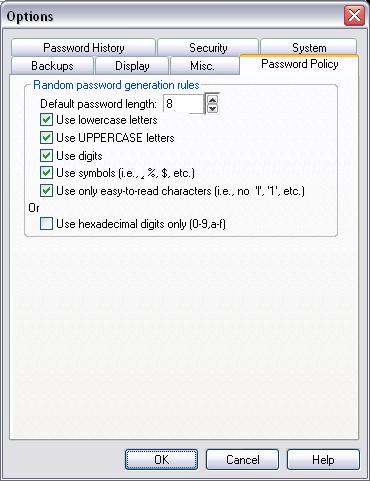
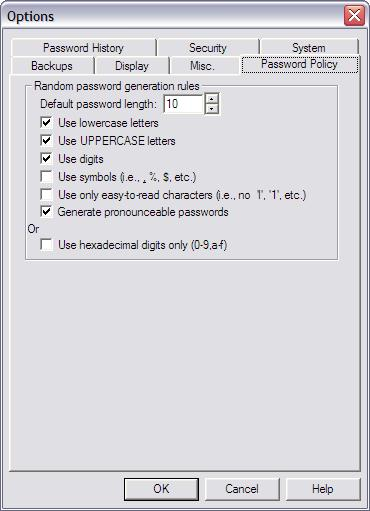
Finished implementing pronounceable password policy. Also cleaned up OptionsPasswordPolicy (less cut&paste coding)

diff --git a/pwsafe/pwsafe/help/default/html/password_policies.html b/pwsafe/pwsafe/help/default/html/password_policies.html
@@ -1,24 +1,30 @@
 <!DOCTYPE HTML PUBLIC "-//W3C//DTD HTML 4.01 Transitional//EN">
 <html>
 <head>
+
+  
+
+
+
+  
   <title>Setting a Password Policy</title>
-
-
 <!-- pwsafe version: 2.11--><!-- Modified: 15/06/2005 --><!--Popup control -->
   <script language="javascript" src="html/popups.js">
   </script>
+  
   <link rel="stylesheet" type="text/css" href="style.css">
-
 </head>
 
 
 <body>
 
+
 <object id="popup" type="application/x-oleobject" classid="clsid:adb880a6-d8ff-11cf-9377-00aa003b7a11"> </object>
 <!-- Popup Source File -->
 <h2>Setting a Password Policy</h2>
 
-<img style="width: 370px; height: 481px;" alt="password policy" src="images/options/password_policy_tab.jpg">
+
+<img style="width: 370px; height: 511px;" alt="password policy" src="images/options/password_policy_tab.jpg">
 <p>A password policy describes the rules that are used to create
 a
 password&mdash;the letters, letter cases, length, and any special
@@ -29,16 +35,19 @@ length. In general, it is a good idea to use the longest allowable
 length and the largest permitted mix of characters. Please verify the
 exact password requirements with the entities that require them.</p>
 
+
 <p>The <b>Password Policy</b> dialog allows you to
 set the global password generation policy. This policy can be
 overridden
 temporarily and passwords manually edited at any time in the <b>Edit/View
 Entry</b> dialog.</p>
 
+
 <div class="instr">
 <h3>Selecting Password Rules</h3>
 
-<p>Each item checked in the dialog forces <b>Password Safe</b>
+
+<p>Each "use" item (e.g., <span style="font-weight: bold;">use digits</span>, <span style="font-weight: bold;">use symbols</span>, etc.) checked in the dialog forces <b>Password Safe</b>
 to
 include the specified characters in the passwords it generates. Each
 password will also be generated to the specified length (no shorter, no
@@ -47,17 +56,24 @@ digits only</b> check box. When checked, passwords will include
 those characters that represent <a href="JavaScript:popup.TextPopup(strHexDec,popFont,9,9,-1,-1)">hexadecimal
 digits</a> only. Selecting this option, disables all other check
 boxes.</p>
+<p>Selecting<span style="font-weight: bold;"><span style="font-weight: bold;"> </span>Generate pronounceable passwords </span>will cause <span style="font-weight: bold;">Password Safe </span>to generate a "nonsense" word that should be pronounceable, such as "ingstria", "ringsony", etc. This is useful when you need a password that is both secure and relatively easy to remember without <span style="font-weight: bold;">Password Safe</span>. Choosing this option with&nbsp;<span style="font-weight: bold;">use digits</span> and/or&nbsp;<span style="font-weight: bold;">use symbols </span>will enable replacing some letters with their "leet" equivalent, e.g., "E" may be replaced by "3", "S" by "5", etc.</p>
+
 
 <br>
 
+
 </div>
+
 
 <!-- Added some white space at the bottom for natural scrolling -->
 <br>
 
-<br>
 
 <br>
+
+
+<br>
+
 
 <object type="application/x-oleobject" classid="clsid:1e2a7bd0-dab9-11d0-b93a-00c04fc99f9e"> <param name="Keyword" value="Password Policy"> <param name="Keyword" value="creating complex passwords"> <param name="Keyword" value="Password Policy Tab"> <param name="Keyword" value="Generating Passwords"> </object>
 </body>

diff --git a/pwsafe/pwsafe/OptionsPasswordPolicy.cpp b/pwsafe/pwsafe/OptionsPasswordPolicy.cpp
@@ -31,6 +31,10 @@ static char THIS_FILE[] = __FILE__;
 
 IMPLEMENT_DYNCREATE(COptionsPasswordPolicy, CPropertyPage)
 
+const int COptionsPasswordPolicy::nonHex[COptionsPasswordPolicy::N_NOHEX] = {
+  IDC_USELOWERCASE, IDC_USEUPPERCASE, IDC_USEDIGITS,
+  IDC_USESYMBOLS, IDC_EASYVISION, IDC_PRONOUNCEABLE};
+
 COptionsPasswordPolicy::COptionsPasswordPolicy() : CPropertyPage(COptionsPasswordPolicy::IDD)
 {
   //{{AFX_DATA_INIT(COptionsPasswordPolicy)
@@ -43,16 +47,17 @@ COptionsPasswordPolicy::~COptionsPasswordPolicy()
 
 void COptionsPasswordPolicy::DoDataExchange(CDataExchange* pDX)
 {
-  CPropertyPage::DoDataExchange(pDX);
-  //{{AFX_DATA_MAP(COptionsPasswordPolicy)
-  DDX_Text(pDX, IDC_DEFPWLENGTH, m_pwdefaultlength);
-  DDX_Check(pDX, IDC_USELOWERCASE, m_pwuselowercase);
-  DDX_Check(pDX, IDC_USEUPPERCASE, m_pwuseuppercase);
-  DDX_Check(pDX, IDC_USEDIGITS, m_pwusedigits);
-  DDX_Check(pDX, IDC_USESYMBOLS, m_pwusesymbols);
-  DDX_Check(pDX, IDC_EASYVISION, m_pweasyvision);
-  DDX_Check(pDX, IDC_USEHEXDIGITS, m_pwusehexdigits);
-  //}}AFX_DATA_MAP
+   CPropertyPage::DoDataExchange(pDX);
+   //{{AFX_DATA_MAP(COptionsPasswordPolicy)
+   DDX_Text(pDX, IDC_DEFPWLENGTH, m_pwdefaultlength);
+   DDX_Check(pDX, IDC_USELOWERCASE, m_pwuselowercase);
+   DDX_Check(pDX, IDC_USEUPPERCASE, m_pwuseuppercase);
+   DDX_Check(pDX, IDC_USEDIGITS, m_pwusedigits);
+   DDX_Check(pDX, IDC_USESYMBOLS, m_pwusesymbols);
+   DDX_Check(pDX, IDC_EASYVISION, m_pweasyvision);
+   DDX_Check(pDX, IDC_USEHEXDIGITS, m_pwusehexdigits);
+   DDX_Check(pDX, IDC_PRONOUNCEABLE, m_pwmakepronounceable);
+   //}}AFX_DATA_MAP
 }
 
 
@@ -76,62 +81,38 @@ BOOL COptionsPasswordPolicy::OnInitDialog()
   pspin->SetBase(10);
   pspin->SetPos(m_pwdefaultlength);
 
-  if (IsDlgButtonChecked(IDC_USEHEXDIGITS)) {
-    GetDlgItem(IDC_USEHEXDIGITS)->EnableWindow(TRUE);
-	   
-    GetDlgItem(IDC_USELOWERCASE)->EnableWindow(FALSE);
-    GetDlgItem(IDC_USEUPPERCASE)->EnableWindow(FALSE);
-    GetDlgItem(IDC_USEDIGITS)->EnableWindow(FALSE);
-    GetDlgItem(IDC_USESYMBOLS)->EnableWindow(FALSE);
-    GetDlgItem(IDC_EASYVISION)->EnableWindow(FALSE);
+  m_save[0] = m_pwuselowercase; m_save[1] = m_pwuseuppercase;
+  m_save[2] = m_pwusedigits; m_save[3] = m_pwusesymbols;
+  m_save[4] = m_pweasyvision; m_save[5] = m_pwmakepronounceable;
 
-    ((CButton*)GetDlgItem(IDC_USELOWERCASE))->SetCheck(0);
-    ((CButton*)GetDlgItem(IDC_USEUPPERCASE))->SetCheck(0);
-    ((CButton*)GetDlgItem(IDC_USEDIGITS))->SetCheck(0);
-    ((CButton*)GetDlgItem(IDC_USESYMBOLS))->SetCheck(0);
-    ((CButton*)GetDlgItem(IDC_EASYVISION))->SetCheck(0);
-  }
-
-  m_savepwuselowercase = m_savepwuseuppercase = m_savepwusedigits = 
-	  m_savepwusesymbols = m_savepweasyvision = 0;
+  do_nohex(m_pwusehexdigits == FALSE);
 
   return TRUE;  // return TRUE unless you set the focus to a control
   // EXCEPTION: OCX Property Pages should return FALSE
 }
 
+void COptionsPasswordPolicy::do_nohex(bool mode)
+{
+  int i;
+  if (mode) { // true means enable non-hex, restore state
+    for (i = 0; i < N_NOHEX; i++) {
+      int id = nonHex[i];
+      GetDlgItem(id)->EnableWindow(TRUE);
+      ((CButton*)GetDlgItem(id))->SetCheck(m_save[i]);
+    }
+  } else { // disable, save state for possible re-enable
+    for (i = 0; i < N_NOHEX; i++) {
+      int id = nonHex[i];
+      GetDlgItem(id)->EnableWindow(FALSE);
+      m_save[i] = ((CButton*)GetDlgItem(id))->GetCheck();
+      ((CButton*)GetDlgItem(id))->SetCheck(0);
+    }
+  }
+}
+
 void COptionsPasswordPolicy::OnUsehexdigits() 
 {
-  if ( IsDlgButtonChecked(IDC_USEHEXDIGITS) ) {
-    GetDlgItem(IDC_USELOWERCASE)->EnableWindow(FALSE);
-    GetDlgItem(IDC_USEUPPERCASE)->EnableWindow(FALSE);
-    GetDlgItem(IDC_USEDIGITS)->EnableWindow(FALSE);
-    GetDlgItem(IDC_USESYMBOLS)->EnableWindow(FALSE);
-    GetDlgItem(IDC_EASYVISION)->EnableWindow(FALSE);
-
-    m_savepwuselowercase = ((CButton*)GetDlgItem(IDC_USELOWERCASE))->GetCheck();
-    m_savepwuseuppercase = ((CButton*)GetDlgItem(IDC_USEUPPERCASE))->GetCheck();
-    m_savepwusedigits = ((CButton*)GetDlgItem(IDC_USEDIGITS))->GetCheck();
-    m_savepwusesymbols = ((CButton*)GetDlgItem(IDC_USESYMBOLS))->GetCheck();
-    m_savepweasyvision = ((CButton*)GetDlgItem(IDC_EASYVISION))->GetCheck();
-
-    ((CButton*)GetDlgItem(IDC_USELOWERCASE))->SetCheck(0);
-    ((CButton*)GetDlgItem(IDC_USEUPPERCASE))->SetCheck(0);
-    ((CButton*)GetDlgItem(IDC_USEDIGITS))->SetCheck(0);
-    ((CButton*)GetDlgItem(IDC_USESYMBOLS))->SetCheck(0);
-    ((CButton*)GetDlgItem(IDC_EASYVISION))->SetCheck(0);
-  } else {
-    GetDlgItem(IDC_USELOWERCASE)->EnableWindow(TRUE);
-    GetDlgItem(IDC_USEUPPERCASE)->EnableWindow(TRUE);
-    GetDlgItem(IDC_USEDIGITS)->EnableWindow(TRUE);
-    GetDlgItem(IDC_USESYMBOLS)->EnableWindow(TRUE);
-    GetDlgItem(IDC_EASYVISION)->EnableWindow(TRUE);
-
-    ((CButton*)GetDlgItem(IDC_USELOWERCASE))->SetCheck(m_savepwuselowercase);
-    ((CButton*)GetDlgItem(IDC_USEUPPERCASE))->SetCheck(m_savepwuseuppercase);
-    ((CButton*)GetDlgItem(IDC_USEDIGITS))->SetCheck(m_savepwusedigits);
-    ((CButton*)GetDlgItem(IDC_USESYMBOLS))->SetCheck(m_savepwusesymbols);
-    ((CButton*)GetDlgItem(IDC_EASYVISION))->SetCheck(m_savepweasyvision);
-  }
+  do_nohex(IsDlgButtonChecked(IDC_USEHEXDIGITS) == 0);
 }
 
 BOOL COptionsPasswordPolicy::OnKillActive()
@@ -140,8 +121,14 @@ BOOL COptionsPasswordPolicy::OnKillActive()
 
   // Check that options, as set, are valid.
   if (m_pwusehexdigits &&
-      (m_pwuselowercase || m_pwuseuppercase || m_pwusedigits || m_pwusesymbols)) {
+      (m_pwuselowercase || m_pwuseuppercase || m_pwusedigits ||
+       m_pwusesymbols || m_pwmakepronounceable)) {
     AfxMessageBox(IDS_HEXMUTUALLYEXCL);
+    return FALSE;
+  }
+
+  if (m_pwmakepronounceable && m_pweasyvision) {
+    AfxMessageBox(IDS_PROVISMUTUALLYEXCL);
     return FALSE;
   }
 

diff --git a/pwsafe/pwsafe/MainManage.cpp b/pwsafe/pwsafe/MainManage.cpp
@@ -320,6 +320,8 @@ DboxMain::OnOptions()
         GetPref(PWSprefs::PWUseHexDigits);
     passwordpolicy.m_pweasyvision = prefs->
         GetPref(PWSprefs::PWUseEasyVision);
+    passwordpolicy.m_pwmakepronounceable = prefs->
+        GetPref(PWSprefs::PWMakePronounceable);
 
     passwordhistory.m_savepwhistory = prefs->
         GetPref(PWSprefs::SavePasswordHistory) ? TRUE : FALSE;
@@ -476,6 +478,8 @@ DboxMain::OnOptions()
                        passwordpolicy.m_pwusehexdigits == TRUE);
         prefs-> SetPref(PWSprefs::PWUseEasyVision,
                         passwordpolicy.m_pweasyvision == TRUE);
+        prefs-> SetPref(PWSprefs::PWMakePronounceable,
+                        passwordpolicy.m_pwmakepronounceable == TRUE);
 
         prefs->SetPref(PWSprefs::SavePasswordHistory,
                        passwordhistory.m_savepwhistory == TRUE);

diff --git a/pwsafe/pwsafe/OptionsPasswordPolicy.h b/pwsafe/pwsafe/OptionsPasswordPolicy.h
@@ -6,6 +6,7 @@
  * http://www.opensource.org/licenses/artistic-license-2.0.php
  */
 #pragma once
+#include "afxwin.h"
 
 // OptionsPasswordPolicy.h : header file
 //
@@ -32,6 +33,7 @@ public:
 	BOOL	m_pwusesymbols;
 	BOOL	m_pweasyvision;
 	BOOL	m_pwusehexdigits;
+  BOOL  m_pwmakepronounceable;
 	//}}AFX_DATA
 
 
@@ -53,9 +55,8 @@ protected:
 	DECLARE_MESSAGE_MAP()
 
 private:
-	BOOL	m_savepwuselowercase;
-	BOOL	m_savepwuseuppercase;
-	BOOL	m_savepwusedigits;
-	BOOL	m_savepwusesymbols;
-	BOOL	m_savepweasyvision;
+  void do_nohex(bool mode); // mode == true enable non-hex
+  enum {N_NOHEX = 6}; // number of checkboxes disabled when hex chosen
+  static const int nonHex[N_NOHEX]; // IDs of said checkboxes
+  BOOL m_save[N_NOHEX]; // save cb's state when disabling hex
 };

diff --git a/pwsafe/pwsafe/DboxPassword.cpp b/pwsafe/pwsafe/DboxPassword.cpp
@@ -77,7 +77,8 @@ DboxMain::MakeRandomPassword( CDialog * const pDialog, CMyString& password)
                             passwordpolicy.m_pwusedigits,
                             passwordpolicy.m_pwusesymbols,
                             passwordpolicy.m_pwusehexdigits,
-                            passwordpolicy.m_pweasyvision, false);
+                            passwordpolicy.m_pweasyvision,
+                            passwordpolicy.m_pwmakepronounceable);
 
   password = pwchars.MakePassword();
   SetClipboardData( password );

diff --git a/pwsafe/pwsafe/corelib/PWSprefs.cpp b/pwsafe/pwsafe/corelib/PWSprefs.cpp
@@ -75,6 +75,7 @@ const PWSprefs::boolPref PWSprefs::m_bool_prefs[NumBoolPrefs] = {
   {_T("ListViewGridLines"), false, false},                        // application
   {_T("MinimizeOnAutotype"), true, false},                        // application
   {_T("ShowUsernameInTree"), true, true},								// database
+	{_T("PWMakePronounceable"), false, true}, // database - 3.12 password policy
 };
 
 // Default value = -1 means set at runtime

diff --git a/pwsafe/pwsafe/corelib/PWSprefs.h b/pwsafe/pwsafe/corelib/PWSprefs.h
@@ -65,7 +65,7 @@ class PWSprefs {
        ShowNotesDefault,
 		   BackupBeforeEverySave, PreExpiryWarn,
        ExplorerTypeTree, ListViewGridLines, MinimizeOnAutotype,
-       ShowUsernameInTree,
+       ShowUsernameInTree, PWMakePronounceable,
 		   NumBoolPrefs};
   enum  IntPrefs {Column1Width, Column2Width, Column3Width, Column4Width,
 		  SortedColumn, PWDefaultLength, MaxMRUItems, IdleTimeout,

diff --git a/pwsafe/pwsafe/resource.h b/pwsafe/pwsafe/resource.h
@@ -248,6 +248,8 @@
 #define IDC_SPINSYMBOLS                 1064
 #define IDC_EASYVISION                  1065
 #define IDC_ITEMTREE                    1066
+#define IDC_EASYVISION2                 1066
+#define IDC_PRONOUNCEABLE               1066
 #define IDC_GROUP                       1067
 #define IDC_EXPORT_XML_PASSWORD         1068
 #define IDC_EXPORT_TEXT_PASSWORD        1069

diff --git a/pwsafe/pwsafe/resource3.h b/pwsafe/pwsafe/resource3.h
@@ -353,3 +353,4 @@
 #define IDS_VIEWSHORTCUTSBTN            5531
 #define IDS_MULTIPLETARGETSFOUND        5532
 #define IDS_TARGETNOTFOUND              5533
+#define	IDS_PROVISMUTUALLYEXCL          5534
